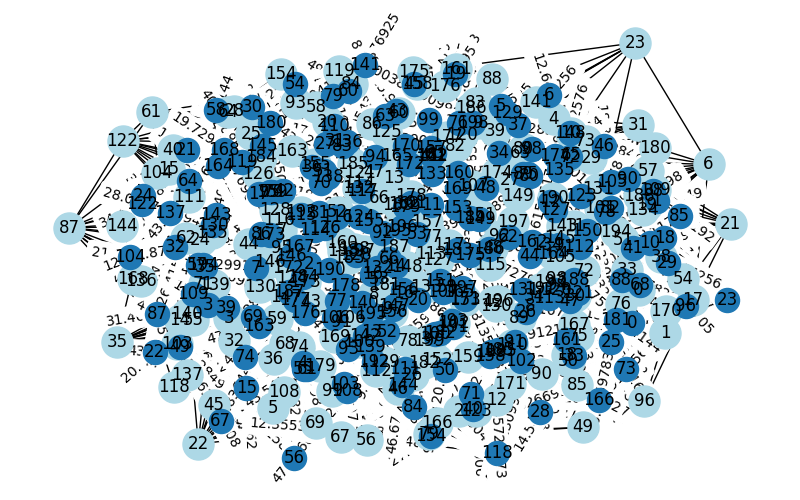
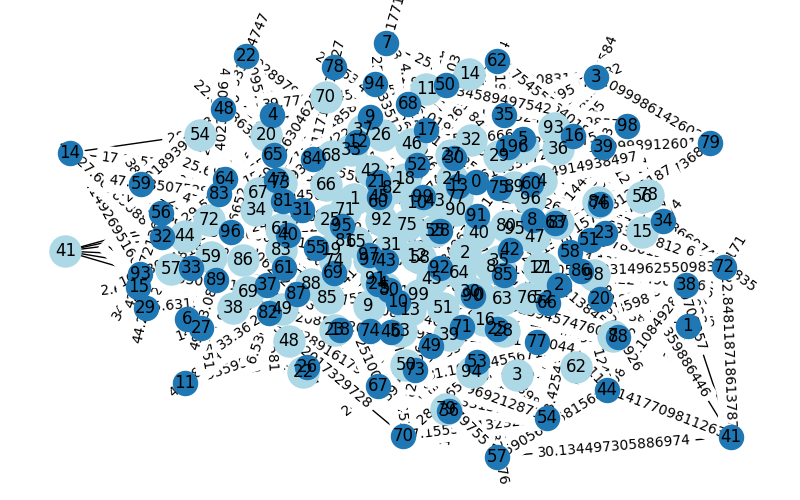
better graph

diff --git a/graph.py b/graph.py
@@ -290,7 +290,7 @@ def main():
     G = nx.Graph()
     graph2 = nx.Graph()
     
-    nodes = 200
+    nodes = 100
     failures = [random.uniform(0.1, 1.0) for _ in range(nodes)]
 
     
